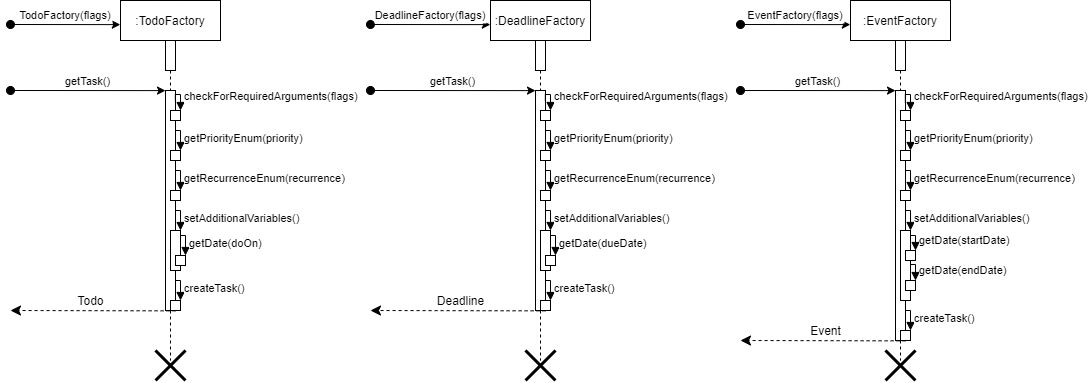
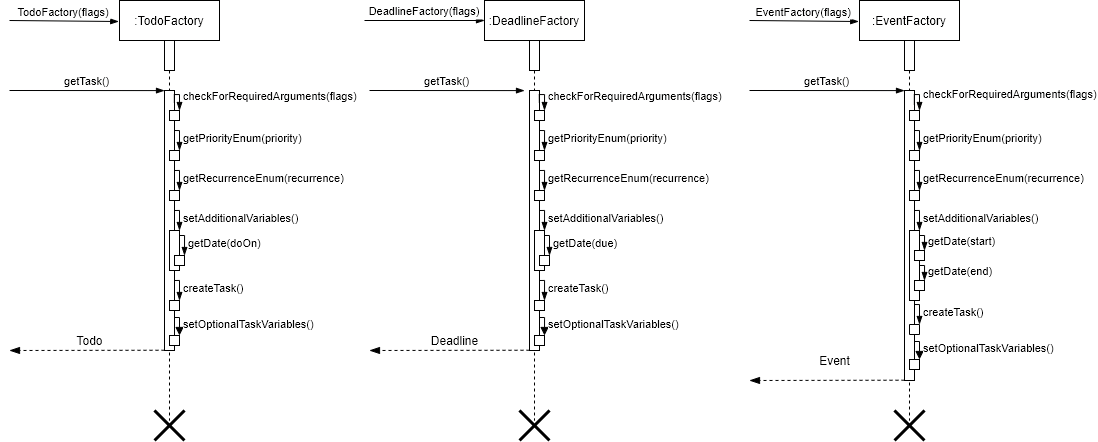
Add uml diagrams and refactor TaskFactories

diff --git a/src/main/java/seedu/tp/task/factory/TodoFactory.java b/src/main/java/seedu/tp/task/factory/TodoFactory.java
@@ -6,8 +6,6 @@ import java.util.Map;
 import seedu.tp.exception.GetTaskFailedException;
 import seedu.tp.exception.ParseDateFailedException;
 import seedu.tp.command.flags.TodoFlag;
-import seedu.tp.task.PriorityEnum;
-import seedu.tp.task.RecurrenceEnum;
 import seedu.tp.task.Task;
 import seedu.tp.task.TypeEnum;
 import seedu.tp.task.type.Todo;
@@ -44,43 +42,10 @@ public class TodoFactory extends TaskFactory {
 
     @Override
     Task createTask() {
-        if (priorityEnum == null) {
-            return getTodoWithDefaultPriority(description, doOnDate, recurrenceEnum);
+        if (doOnDate == null) {
+            return new Todo(description);
         } else {
-            return getTodoWithPriority(description, priorityEnum, doOnDate, recurrenceEnum);
-        }
-    }
-
-    private static Todo getTodoWithDefaultPriority(String description, LocalDateTime doOn, RecurrenceEnum recurrence) {
-        if (doOn == null) {
-            if (recurrence == null) {
-                return new Todo(description);
-            } else {
-                return new Todo(description, recurrence);
-            }
-        } else {
-            if (recurrence == null) {
-                return new Todo(description, doOn);
-            } else {
-                return new Todo(description, doOn, recurrence);
-            }
-        }
-    }
-
-    private static Todo getTodoWithPriority(String description,
-                                            PriorityEnum priority, LocalDateTime doOn, RecurrenceEnum recurrence) {
-        if (doOn == null) {
-            if (recurrence == null) {
-                return new Todo(description, priority);
-            } else {
-                return new Todo(description, priority, recurrence);
-            }
-        } else {
-            if (recurrence == null) {
-                return new Todo(description, priority, doOn);
-            } else {
-                return new Todo(description, priority, doOn, recurrence);
-            }
+            return new Todo(description, doOnDate);
         }
     }
 
@@ -88,7 +53,7 @@ public class TodoFactory extends TaskFactory {
      * Returns the {@link seedu.tp.task.type.Todo} created.
      *
      * @return created {@link seedu.tp.task.type.Todo}.
-     * @throws seedu.tp.exception.GetTaskFailedException General Exception
+     * @throws GetTaskFailedException General Exception
      *     thrown when creating {@link seedu.tp.task.Task} fails.
      */
     @Override

diff --git a/src/main/java/seedu/tp/task/factory/EventFactory.java b/src/main/java/seedu/tp/task/factory/EventFactory.java
@@ -6,8 +6,6 @@ import seedu.tp.exception.GetTaskFailedException;
 import seedu.tp.exception.ParseDateFailedException;
 import seedu.tp.exception.StartDateAfterEndDateException;
 import seedu.tp.command.flags.EventFlag;
-import seedu.tp.task.PriorityEnum;
-import seedu.tp.task.RecurrenceEnum;
 import seedu.tp.task.Task;
 import seedu.tp.task.TypeEnum;
 import seedu.tp.task.type.Event;
@@ -54,37 +52,14 @@ public class EventFactory extends TaskFactory {
 
     @Override
     Task createTask() {
-        if (priorityEnum == null) {
-            return getEventWithDefaultPriority(description, startDate, endDate, recurrenceEnum);
-        } else {
-            return getEventWithPriority(description, startDate, endDate, priorityEnum, recurrenceEnum);
-        }
-    }
-
-    private static Event getEventWithDefaultPriority(String description,
-            LocalDateTime start, LocalDateTime end, RecurrenceEnum recurrence) {
-        if (recurrence == null) {
-            return new Event(description, start, end);
-        } else {
-            return new Event(description, start, end, recurrence);
-        }
-    }
-
-    private static Event getEventWithPriority(String description,
-            LocalDateTime start, LocalDateTime end, PriorityEnum priority, RecurrenceEnum recurrence) {
-        if (recurrence == null) {
-            return new Event(description,
-                start, end, priority);
-        } else {
-            return new Event(description, start, end, priority, recurrence);
-        }
+        return new Event(description, startDate, endDate);
     }
 
     /**
      * Returns the {@link seedu.tp.task.type.Event} created.
      *
      * @return created {@link seedu.tp.task.type.Event}.
-     * @throws seedu.tp.exception.GetTaskFailedException General Exception
+     * @throws GetTaskFailedException General Exception
      *     thrown when creating {@link seedu.tp.task.Task} fails.
      */
     @Override

diff --git a/src/main/java/seedu/tp/task/factory/DeadlineFactory.java b/src/main/java/seedu/tp/task/factory/DeadlineFactory.java
@@ -5,8 +5,6 @@ import java.util.Map;
 import seedu.tp.command.flags.DeadlineFlag;
 import seedu.tp.exception.GetTaskFailedException;
 import seedu.tp.exception.ParseDateFailedException;
-import seedu.tp.task.PriorityEnum;
-import seedu.tp.task.RecurrenceEnum;
 import seedu.tp.task.Task;
 import seedu.tp.task.TypeEnum;
 import seedu.tp.task.type.Deadline;
@@ -44,36 +42,14 @@ public class DeadlineFactory extends TaskFactory {
 
     @Override
     Task createTask() {
-        if (priorityEnum == null) {
-            return getDeadlineWithDefaultPriority(description, dueDate, recurrenceEnum);
-        } else {
-            return getDeadlineWithPriority(description, dueDate, priorityEnum, recurrenceEnum);
-        }
-    }
-
-    private Deadline getDeadlineWithDefaultPriority(String description,
-            LocalDateTime due, RecurrenceEnum recurrence) {
-        if (recurrence == null) {
-            return new Deadline(description, due);
-        } else {
-            return new Deadline(description, due, recurrence);
-        }
-    }
-
-    private Deadline getDeadlineWithPriority(String description,
-            LocalDateTime due, PriorityEnum priority, RecurrenceEnum recurrence) {
-        if (recurrence == null) {
-            return new Deadline(description, due, priority);
-        } else {
-            return new Deadline(description, due, priority, recurrence);
-        }
+        return new Deadline(description, dueDate);
     }
 
     /**
      * Returns the {@link seedu.tp.task.type.Deadline} created.
      *
      * @return created {@link seedu.tp.task.type.Deadline}.
-     * @throws seedu.tp.exception.GetTaskFailedException General Exception
+     * @throws GetTaskFailedException General Exception
      *     thrown when creating {@link seedu.tp.task.Task} fails.
      */
     @Override

diff --git a/src/main/java/seedu/tp/task/PriorityEnum.java b/src/main/java/seedu/tp/task/PriorityEnum.java
@@ -41,7 +41,7 @@ public enum PriorityEnum {
      *
      * @param priorityNumber the priority <code>int</code> corresponding to the {@link PriorityEnum} you want to obtain.
      * @return {@link PriorityEnum} enum corresponding to <code>int priorityNumber</code> argument.
-     * @throws seedu.tp.exception.InvalidPriorityException if <code>priorityNumber</code> does not
+     * @throws InvalidPriorityException if <code>priorityNumber</code> does not
      *     correspond to a valid {@link seedu.tp.task.PriorityEnum}.
      */
     public static PriorityEnum getPriority(int priorityNumber) throws InvalidPriorityException {
@@ -58,7 +58,7 @@ public enum PriorityEnum {
      *
      * @param priority the priority <code>String</code> corresponding to the {@link PriorityEnum} you want to obtain.
      * @return {@link PriorityEnum} enum corresponding to <code>int priorityNumber</code> argument.
-     * @throws seedu.tp.exception.InvalidPriorityException if <code>priority</code> does not
+     * @throws InvalidPriorityException if <code>priority</code> does not
      *     correspond to a valid {@link seedu.tp.task.PriorityEnum}.
      */
     public static PriorityEnum getPriority(String priority) throws InvalidPriorityException {

diff --git a/src/main/java/seedu/tp/task/factory/TaskFactory.java b/src/main/java/seedu/tp/task/factory/TaskFactory.java
@@ -63,7 +63,11 @@ public abstract class TaskFactory {
             recurrenceEnum = getRecurrenceEnum(recurrence);
 
             setAdditionalVariables();
-            return createTask();
+
+            Task task = createTask();
+            setOptionalTaskVariables(task);
+
+            return task;
         } catch (RequiredArgmentNotProvidedException ranpe) {
             throw new GetTaskFailedException(ranpe.getMessage());
         } catch (InvalidPriorityException ipe) {
@@ -74,6 +78,16 @@ public abstract class TaskFactory {
             throw new GetTaskFailedException(gtfe.getMessage());
         }
     }
+
+    private void setOptionalTaskVariables(Task task) {
+        if (priorityEnum != null) {
+            task.setPriority(priorityEnum);
+        }
+        if (recurrenceEnum != null) {
+            task.setRecurrence(recurrenceEnum);
+        }
+    }
+
 
     /**
      * Checks that all required flags are present in <code>flags</code>.

diff --git a/src/main/java/seedu/tp/command/CommandResult.java b/src/main/java/seedu/tp/command/CommandResult.java
@@ -7,20 +7,12 @@ public class CommandResult {
 
     private static final String MESSAGE_NOT_NULL_ASSERTION = "Command Result message cannot be null!";
 
-    private boolean isExited;
-    private String message;
+    private final boolean isExited;
+    private final String message;
 
     public CommandResult(String message, boolean isExited) {
-        this.isExited = isExited;
-        this.message = message;
-    }
-
-    public void setExited(boolean exited) {
-        isExited = exited;
-    }
-
-    public void setMessage(String message) {
         assert message != null : MESSAGE_NOT_NULL_ASSERTION;
+        this.isExited = isExited;
         this.message = message;
     }
 

diff --git a/src/main/java/seedu/tp/command/addtask/DeadlineCommand.java b/src/main/java/seedu/tp/command/addtask/DeadlineCommand.java
@@ -5,7 +5,6 @@ import java.util.Map;
 import seedu.tp.command.flags.DeadlineFlag;
 import seedu.tp.parser.DateParser;
 import seedu.tp.task.factory.DeadlineFactory;
-import seedu.tp.task.factory.TaskFactory;
 import seedu.tp.task.taskmanager.TaskManager;
 
 //@@author SeanRobertDH
@@ -31,7 +30,7 @@ public class DeadlineCommand extends TaskCommand {
     }
 
     @Override
-    TaskFactory setTaskFactory() {
+    DeadlineFactory setTaskFactory() {
         return new DeadlineFactory(commandArguments);
     }
 

diff --git a/src/main/java/seedu/tp/command/addtask/EventCommand.java b/src/main/java/seedu/tp/command/addtask/EventCommand.java
@@ -5,7 +5,6 @@ import java.util.Map;
 import seedu.tp.command.flags.EventFlag;
 import seedu.tp.parser.DateParser;
 import seedu.tp.task.factory.EventFactory;
-import seedu.tp.task.factory.TaskFactory;
 import seedu.tp.task.taskmanager.TaskManager;
 
 //@@author SeanRobertDH
@@ -31,7 +30,7 @@ public class EventCommand extends TaskCommand {
     }
 
     @Override
-    TaskFactory setTaskFactory() {
+    EventFactory setTaskFactory() {
         return new EventFactory(commandArguments);
     }
 

diff --git a/src/main/java/seedu/tp/command/addtask/TodoCommand.java b/src/main/java/seedu/tp/command/addtask/TodoCommand.java
@@ -4,7 +4,6 @@ import java.util.Map;
 
 import seedu.tp.command.flags.TodoFlag;
 import seedu.tp.parser.DateParser;
-import seedu.tp.task.factory.TaskFactory;
 import seedu.tp.task.factory.TodoFactory;
 import seedu.tp.task.taskmanager.TaskManager;
 
@@ -31,7 +30,7 @@ public class TodoCommand extends TaskCommand {
     }
 
     @Override
-    TaskFactory setTaskFactory() {
+    TodoFactory setTaskFactory() {
         return new TodoFactory(commandArguments);
     }
 

diff --git a/src/main/java/seedu/tp/command/Command.java b/src/main/java/seedu/tp/command/Command.java
@@ -19,11 +19,6 @@ public abstract class Command {
         this.commandArguments = null;
     }
 
-    public Command(TaskManager taskManager) {
-        this.taskManager = taskManager;
-        this.commandArguments = null;
-    }
-
     public Command(TaskManager taskManager, Map<String, String> commandArguments) {
         this.taskManager = taskManager;
         this.commandArguments = commandArguments;
